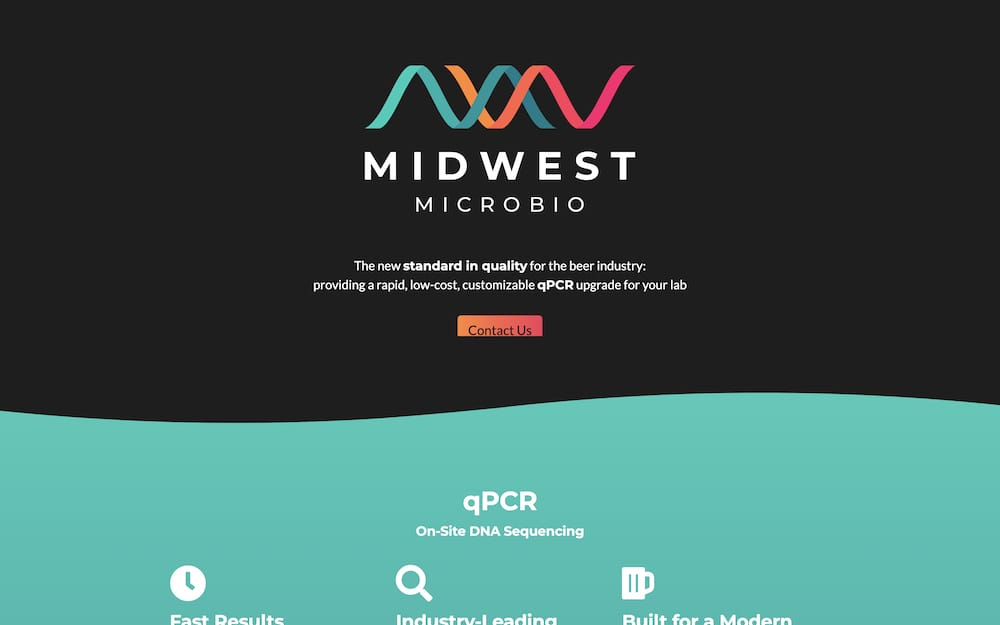
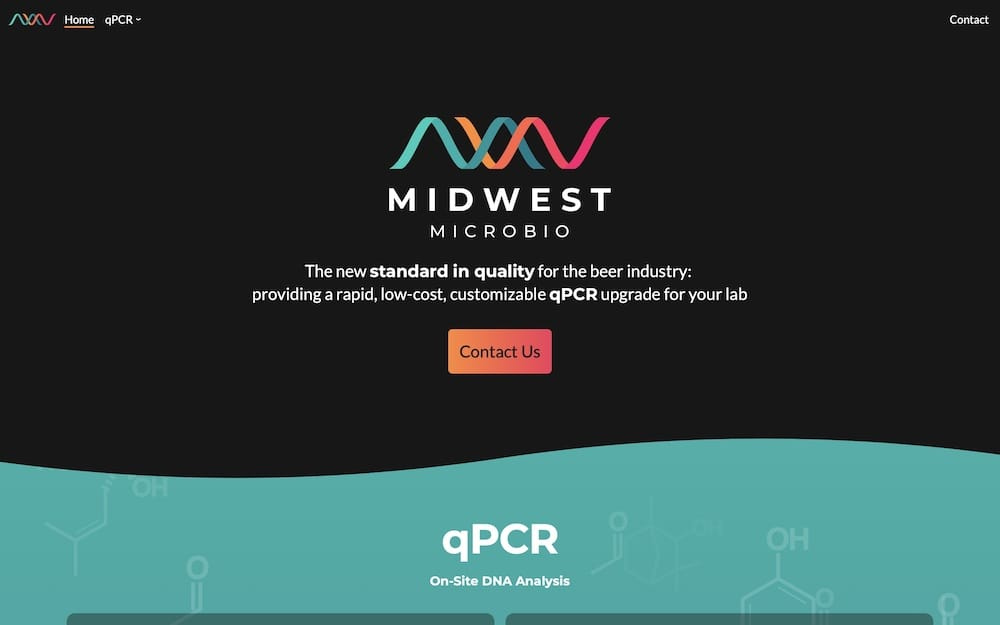
Move mmb to featured project

diff --git a/src/components/sections/Projects/index.svelte b/src/components/sections/Projects/index.svelte
@@ -31,12 +31,17 @@
 			links: [{ type: 'info', href: 'https://www.microsensorlabs.com/sanibit' }]
 		},
 		{
-			header: 'Microsensor Labs Site',
-			summary: `A marketing website providing not only information regarding Microsensor Labs' projects, but also a lightweight <a href="https://jamstack.wtf" target="_blank">JAMStack</a> blog and jobs listing built on Netlify and Gatsby.`,
-			technologies: [{ name: 'React', details: 'Gatsby' }, { name: 'Netlify CMS' }],
-			image: microsensorImg,
-			imageAlt: 'The Microsensor Labs home page',
-			links: [{ type: 'external', href: 'https://www.microsensorlabs.com/' }]
+			header: 'Midwest Microbio Site',
+			summary: `A minimal marketing website designed and built for a buddy's budding beer business. Interactive visualizations make visits to the site informative and memorable. Prismic CMS allows easy changes to commonly-updated areas of the site. Recently transitioned from Pug, Parcel, and Bootstrap... because Svelte is just the best.`,
+			technologies: [
+				{ name: 'Svelte', details: 'SvelteKit, TypeScript, Pancake, Spring, Stores' },
+				{ name: 'Tailwind CSS' },
+				{ name: 'Prismic CMS' },
+				{ name: 'd3-force' }
+			],
+			image: midwestImg,
+			imageAlt: `The Midwest Microbio home page`,
+			links: [{ type: 'external', href: 'https://www.midwestmicrobio.com/' }]
 		},
 		{
 			header: 'Sensor Analytics Platform',
@@ -49,6 +54,14 @@
 	];
 
 	const otherProjects: Project[] = [
+		{
+			header: 'Microsensor Labs Site',
+			summary: `A marketing website providing not only information regarding Microsensor Labs' projects, but also a lightweight <a href="https://jamstack.wtf" target="_blank">JAMStack</a> blog and jobs listing built on Netlify and Gatsby.`,
+			technologies: [{ name: 'React', details: 'Gatsby' }, { name: 'Netlify CMS' }],
+			image: microsensorImg,
+			imageAlt: 'The Microsensor Labs home page',
+			links: [{ type: 'external', href: 'https://www.microsensorlabs.com/' }]
+		},
 		{
 			header: 'Wedding Website',
 			summary: `We got married! No better time to learn Svelte + Sapper (now SvelteKit), lean into a bold design, and finally write a tribute to the legendary <a href="http://www.firewatchgame.com" target="_blank">Firewatch parallax effect</a>, like I've always wanted to.`,
@@ -76,18 +89,6 @@
 			links: [{ type: 'github', href: 'https://github.com/decepulis/weasley-clock' }]
 		},
 		{
-			header: 'Midwest Microbio Site',
-			summary: `A minimal marketing website designed and built for a buddy's budding beer business. Recently transitioned from Pug, Parcel, and Bootstrap.`,
-			technologies: [
-				{ name: 'Svelte', details: 'SvelteKit, TypeScript, Pancake, Spring, Stores' },
-				{ name: 'Tailwind CSS' },
-				{ name: 'd3-force' }
-			],
-			image: midwestImg,
-			imageAlt: `The Midwest Microbio home page`,
-			links: [{ type: 'external', href: 'https://www.midwestmicrobio.com/' }]
-		},
-		{
 			header: 'Formula Fun!',
 			summary: `Some friends started up a betting pool for the 2021 season of Formula One. "Buy" four drivers and win points based on how they do. I wondered if I could beat the game with some statistics&hellip;`,
 			technologies: [{ name: 'Svelte', details: 'TypeScript, Stores' }],
@@ -102,7 +103,7 @@
 </script>
 
 <section id="projects" class="container">
-	<h2>Some Things I've Built</h2>
+	<h2>Some Things I've Made</h2>
 	<section>
 		{#each featuredProjects as { header, summary, technologies, image, imageAlt, links }}
 			<FeaturedProject {image} alt={imageAlt}>
@@ -135,7 +136,7 @@
 		{/each}
 	</section>
 	<section class="other-project-section">
-		<h3>Other Noteworthy Projects</h3>
+		<h3>Other Noteworthy Stuff</h3>
 		{#each otherProjects as { header, summary, technologies, image, imageAlt, links }}
 			<OtherProject {image} alt={imageAlt}>
 				<svelte:fragment slot="header">
